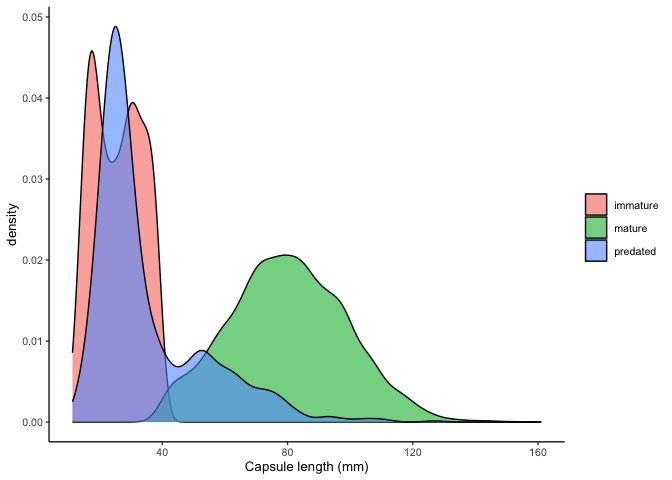
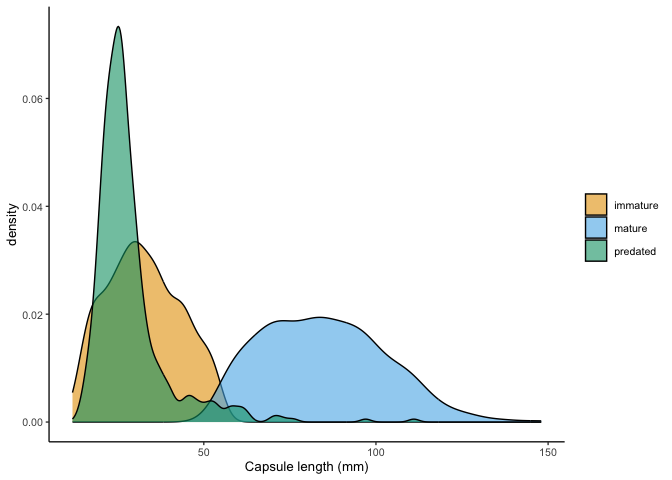
only use healthy pods

diff --git a/code/exploration/2023-02-24_explore-capsule-lengths.md b/code/exploration/2023-02-24_explore-capsule-lengths.md
@@ -1,7 +1,7 @@
 Explore capsule sizes
 ================
 eleanorjackson
-24 February, 2023
+03 March, 2023
 
 When collecting data in the field we didn’t classify capsules as
 immature or mature, but instead recorded their size and whether they
@@ -22,40 +22,56 @@ read.csv(here::here("data", "raw", "jacaranda_pods.csv"),
   filter(tree != "JACC_130") %>%
   mutate(fragment = case_when(str_detect(comments, "fragment") ~ TRUE,
                               TRUE ~ FALSE)) %>%  
-  filter(fragment == FALSE) %>% 
+  mutate(pod_half_whole = recode(pod_half_whole, "half" = 0.5,
+                                 "whole" = 1)) %>%
   mutate(pod_size_mm = coalesce(pod_size_string_mm, pod_size_mm)) %>%
-  mutate(pod_size_mm = as.numeric(pod_size_mm)) -> pod_data
+  mutate(pod_size_mm = as.numeric(pod_size_mm)) %>% 
+  filter(fragment == FALSE) %>% 
+  mutate(pod_healthy = case_when(
+    str_detect(morph, "^symmetrical_locules") ~ TRUE,
+    is.na(morph) ~ NA,
+    TRUE ~ FALSE
+  )) -> pod_data
+
+pod_data %>% 
+  filter(pod_half_whole == 1) %>% 
+  bind_rows() -> pod_halves
+
+healthy_halves <- filter(pod_halves, pod_healthy == TRUE)
 ```
 
 ``` r
-pod_data %>%
+filter(pod_data, pod_healthy == TRUE) %>%
   drop_na(pod_size_mm) %>% 
   ggplot(aes(x = pod_size_mm, fill = pod_open_closed)) +
-  geom_density(alpha = 0.6) +
+  geom_density(alpha = 0.5) +
+  scale_fill_manual(values = c("#E69F00", "#56B4E9")) +
   xlab("Capsule length (mm)") +
   theme(legend.title = element_blank()) +
-  geom_vline(xintercept = 40, linetype = 2)
+  geom_vline(xintercept = 55, linetype = 2) 
 ```
 
 ![](figures/2023-02-24_explore-capsule-lengths/open-closed-size-1.png)<!-- -->
 
-That’s a really nice bimodal distribution. 40 mm looks like a good cut
-off for immature fruits. There’s a small number of pods that are open
-but are comparatively small (the first blue hump). These are probably
-immature capsules that opened on the forest floor.
+There’s a small number of pods that are open but are comparatively small
+(the first blue hump). These are probably immature capsules that opened
+on the forest floor.
+
+I think we can take the median value between the two peaks (55mm) to
+separate the pods into mature and immature.
 
 Let’s take a quick look at capsule sizes between the different
 categories: mature, immature and predated.
 
 ``` r
-pod_data %>%
+pod_halves %>%
   mutate(pod_category = case_when(
-    pod_size_mm < 40 & str_detect(morph, "^symmetrical_locules") ~ "immature",
-    pod_size_mm >= 40 & str_detect(morph, "^symmetrical_locules") ~ "mature",
+    pod_size_mm < 55 & str_detect(morph, "^symmetrical_locules") ~ "immature",
     morph == "asymmetrical_locules" |
       morph == "single_locule" |
       morph == "small_knobbly" ~ "predated",
-    TRUE ~ NA
+    is.na(morph) ~ NA,
+    TRUE ~ "mature"
   )) %>% 
   filter(!is.na(pod_category)) -> pod_groups
 
@@ -63,15 +79,11 @@ pod_groups %>%
   ggplot(aes(x = pod_size_mm, fill = pod_category)) +
   geom_density(alpha = 0.6) +
   xlab("Capsule length (mm)") +
-  theme(legend.title = element_blank())
+  theme(legend.title = element_blank()) +
+  scale_fill_manual(values = c("#E69F00", "#56B4E9", "#009E73")) 
 ```
 
 ![](figures/2023-02-24_explore-capsule-lengths/grouped-pod-size-1.png)<!-- -->
-
-The predated capsules also have a bimodal distribution - this’ll be the
-two different morphotypes that we found: “small-knobbly” ones that
-looked like they’d been predated when they were still young, and
-“asymmetric” ones which were bigger but had one shrunken locule.
 
 Let’s pull some numbers out for the manuscript.
 
@@ -84,6 +96,6 @@ pod_groups %>%
     ## # A tibble: 3 × 3
     ##   pod_category median  mean
     ##   <chr>         <dbl> <dbl>
-    ## 1 immature       25.9  25.8
-    ## 2 mature         79.7  80.1
-    ## 3 predated       28.1  35.2
+    ## 1 immature       31.8  32.6
+    ## 2 mature         83.2  84.7
+    ## 3 predated       25.9  28.5
